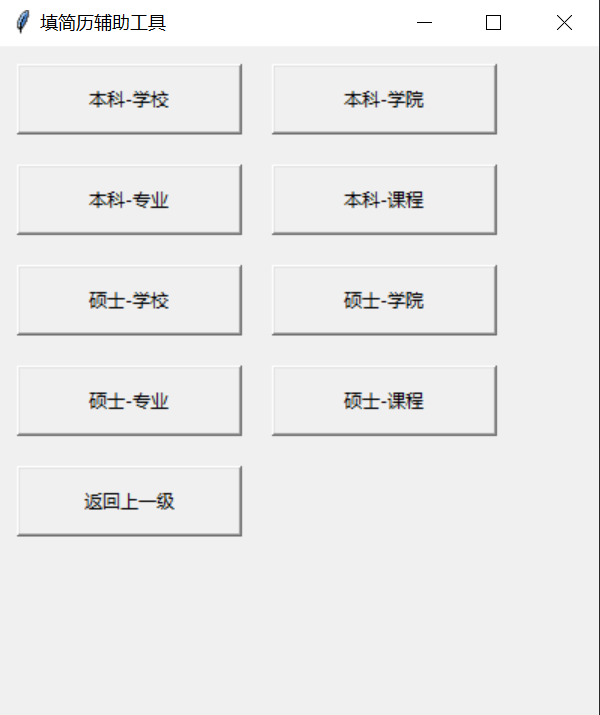
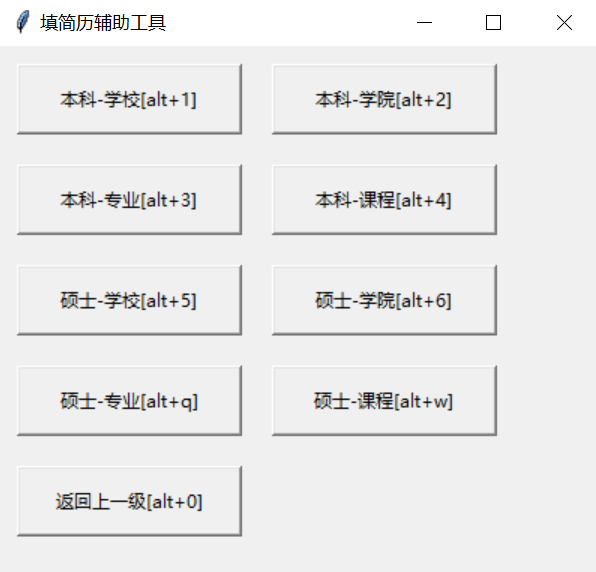
添加快捷键支持

diff --git a/main.py b/main.py
@@ -1,6 +1,8 @@
 import tkinter as tk
 import pyperclip
 import json
+import keyboard
+import atexit
 
 # 设置窗口大小和位置
 WINDOW_WIDTH = 400
@@ -8,6 +10,11 @@ WINDOW_HEIGHT = 800
 # 屏幕左上方为原点
 DISPLAY_X = 1000
 DISPLAY_Y = 50
+
+hot_keys = ['alt+1', 'alt+2', 'alt+3', 'alt+4', 'alt+5', 'alt+6', 'alt+q', 'alt+w', 'alt+r', 'alt+a', 'alt+s', 'alt+z',
+            'alt+x', 'alt+c', 'alt+shift+1', 'alt+shift+2', 'alt+shift+3', 'alt+shift+4', 'alt+shift+5']
+
+hot_keys_register = 0
 
 
 # 读取JSON文件
@@ -24,10 +31,20 @@ def read_json_file(file_path):
 # 复制指定的value值到剪贴板
 def copy_to_clipboard(value):
     pyperclip.copy(value)
+    keyboard.write(value)
+
+
+def finalize():
+    if hot_keys_register > 0:
+        keyboard.unhook_all_hotkeys()
 
 
 # 创建按钮来显示所有key值，每行显示两个按钮
 def create_buttons(data):
+    global hot_keys_register
+    if hot_keys_register > 0:
+        hot_keys_register = 0
+        keyboard.unhook_all_hotkeys()
     # 清除框架中的子部件
     for widget in frame.winfo_children():
         widget.destroy()
@@ -36,6 +53,8 @@ def create_buttons(data):
     col = 0
 
     for key, value in data.items():
+        if hot_keys_register < len(hot_keys):
+            key += '[' + hot_keys[hot_keys_register] + ']'
         if isinstance(value, dict):
             # 如果value是一个JSON对象，创建一个进入下一级的按钮
             button = tk.Button(frame, text=key, command=lambda v=value: create_buttons(v), width=20, height=2)
@@ -45,16 +64,19 @@ def create_buttons(data):
 
         button.grid(row=row, column=col, padx=10, pady=10)
         col += 1
-
         if col == 2:
             col = 0
             row += 1
+        if hot_keys_register < len(hot_keys):
+            keyboard.add_hotkey(hot_keys[hot_keys_register], button.invoke)
+        hot_keys_register += 1
 
     # 添加返回上一级的按钮
     if row > 0 or col > 0:
-        back_button = tk.Button(frame, text="返回上一级", command=lambda: create_buttons(resume_data), width=20,
+        back_button = tk.Button(frame, text="返回上一级[alt+0]", command=lambda: create_buttons(resume_data), width=20,
                                 height=2)
         back_button.grid(row=row, column=col, padx=10, pady=10)
+        keyboard.add_hotkey('alt+0', back_button.invoke)
 
 
 # 创建主窗口
@@ -86,6 +108,8 @@ canvas.create_window((0, 0), window=frame, anchor='nw')
 
 # 初始状态，显示顶层JSON对象的按钮
 create_buttons(resume_data)
+
+atexit.register(finalize)
 
 # 进入主循环
 root.mainloop()

diff --git a/README.md b/README.md
@@ -2,9 +2,12 @@
 
 使用 Python 自带的一个 GUI 库 Tkinter 实现的一个半自动化填简历助手 ，避免填写简历的时候需要不停切换页面复制、粘贴个人信息
 
+- 230920 添加快捷键支持
+  - 快捷键配置暂时是直接写在代码里的，因为既要单手按得过来，又要不被被浏览器响应的快捷键没那么多，也许会有更好的方案替代
+
 ## 环境
 
-Windows + Python 3.9.10（macOS 未测，但应该是通用的）
+Windows + Python 3.9.10（macOS 未测）
 
 ```
 pip install -r requirements.txt
